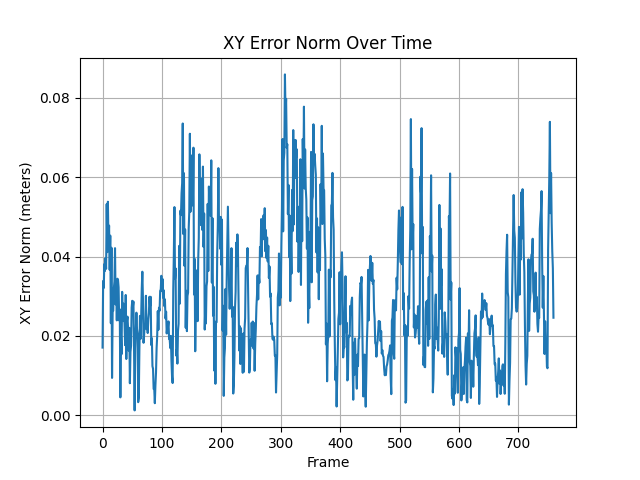
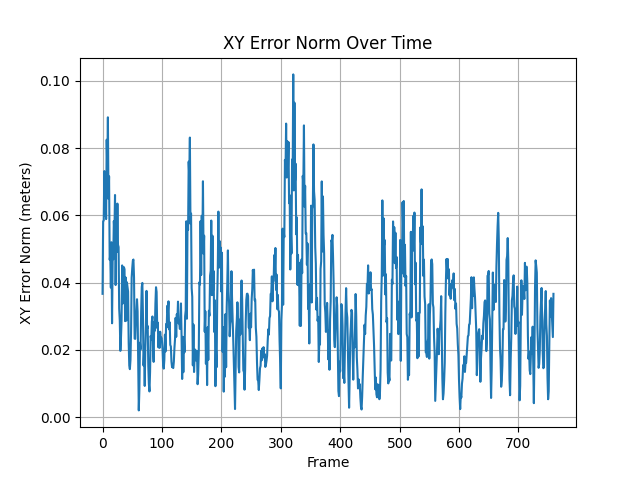
fix

diff --git a/source/ros2/isaac-ros/g1_standalone_v2_14dof_nav_heuristic_test_offset.py b/source/ros2/isaac-ros/g1_standalone_v2_14dof_nav_heuristic_test_offset.py
@@ -691,7 +691,21 @@ while simulation_app.is_running():
         # Iterate over the target poses
         heading_target = target_pose_list[current_target_pose_idx][3].copy()
         target_pos_w = target_pose_list[current_target_pose_idx][:3].copy()
+
+        target_midsole_quat = yaw_quat(np.array([np.sin(heading_target/2), 0.0, 0.0, np.cos(heading_target/2)]).astype(np.float32)).astype(np.float32)
+
+        offset = quat_apply(target_midsole_quat, 
+                    np.array(
+                       [pelvis_to_midsole_offset_after_locomotion["x"], 
+                        pelvis_to_midsole_offset_after_locomotion["y"], 
+                        0.0]
+                        ).astype(np.float32)
+                    )
         
+        pelvis_target_pos_w = target_pos_w + offset
+        pelvis_heading_target = heading_target + pelvis_to_midsole_offset_after_locomotion["yaw"]
+
+
         is_first_released = False
         qj = np.array(av.get_joint_positions()[0])
         dqj = np.array(av.get_joint_velocities()[0])
@@ -701,8 +715,8 @@ while simulation_app.is_running():
         qj_rel = qj - g1.default_pos
         forward_w = quat_apply(est_pelvis_quat.astype(np.float32), np.array([1., 0., 0.]).astype(np.float32))
         heading_w = np.arctan2(forward_w[1], forward_w[0])
-        heading_error = wrap_to_pi(np.array([heading_target]).astype(np.float32) - np.array([heading_w]).astype(np.float32))
-        target_vec = target_pos_w - est_pelvis_pos
+        heading_error = wrap_to_pi(np.array([pelvis_heading_target]).astype(np.float32) - np.array([heading_w]).astype(np.float32))
+        target_vec = pelvis_target_pos_w - est_pelvis_pos
         target_vec[2] = 0.0
         pos_command_b = quat_rotate_inverse(yaw_quat(est_pelvis_quat).astype(np.float32), target_vec.astype(np.float32))
 
